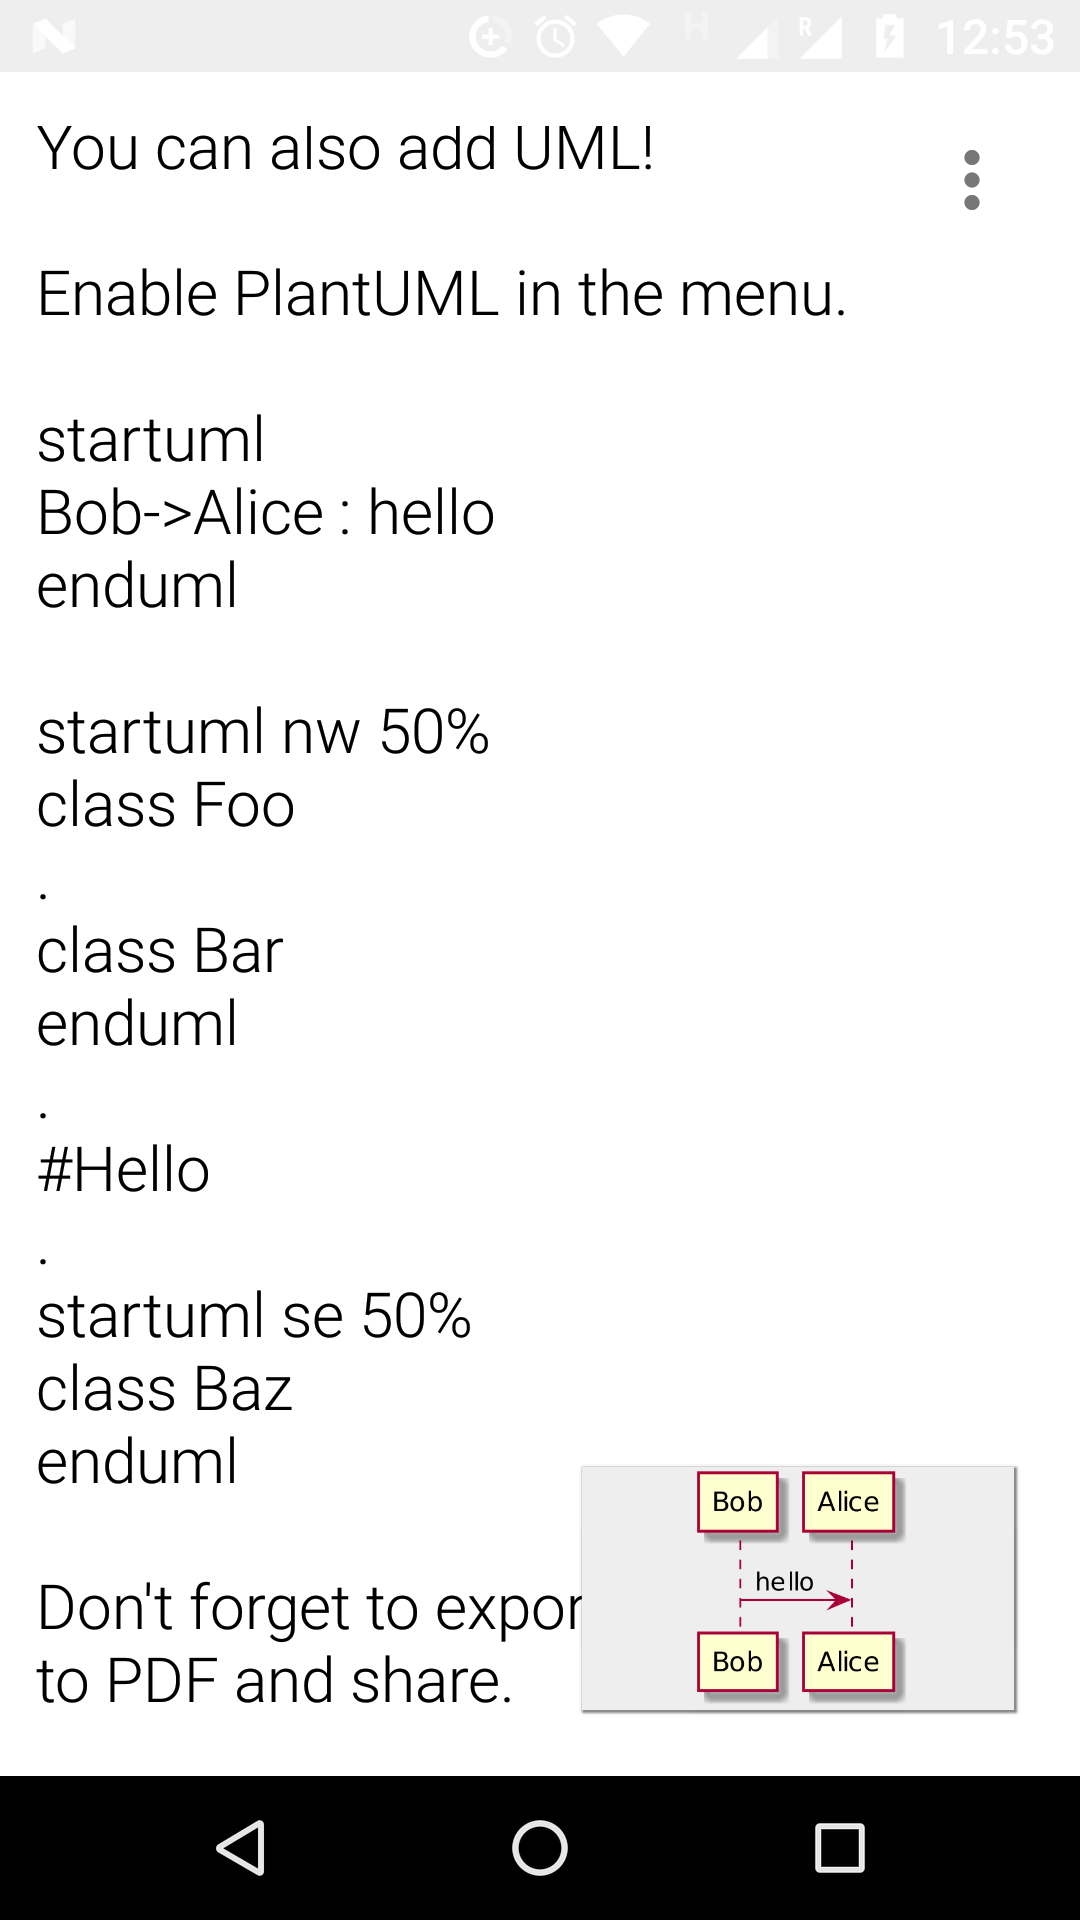
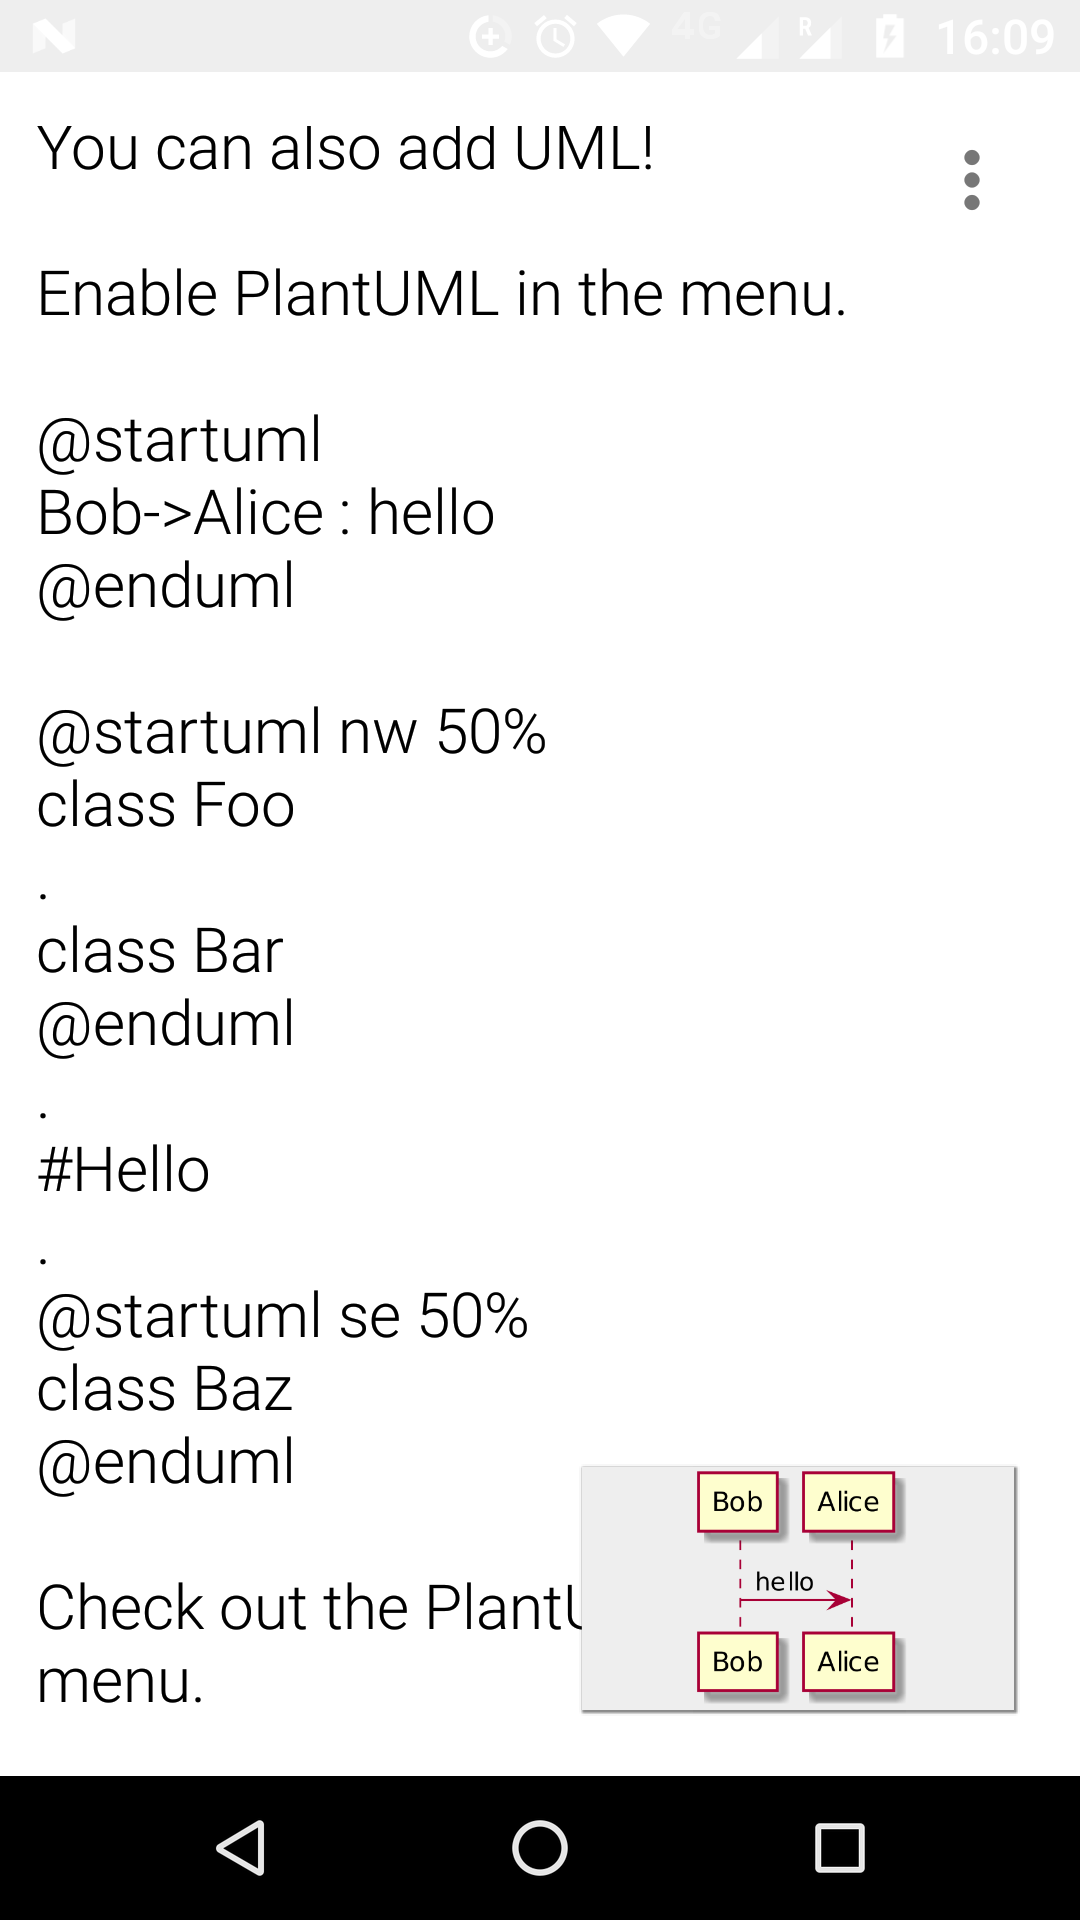
Change syntax to match docs. Add link to docs

diff --git a/src/main/java/trikita/slide/ui/MainLayout.java b/src/main/java/trikita/slide/ui/MainLayout.java
@@ -4,6 +4,8 @@ import android.app.Activity;
 import android.app.AlertDialog;
 import android.content.Context;
 import android.content.DialogInterface;
+import android.content.Intent;
+import android.net.Uri;
 import android.util.Pair;
 import android.view.View;
 import android.widget.CheckBox;
@@ -144,6 +146,8 @@ public class MainLayout extends RenderableView {
                 App.dispatch(new Action<>(ActionType.CREATE_PDF, (Activity) v.getContext()));
             } else if (item.getItemId() == R.id.menu_config_plantuml) {
                 openConfigPlantUMLDialog();
+            } else if (item.getItemId() == R.id.menu_plantuml_docs) {
+                openPlantUMLDocs();
             }
             return true;
         });
@@ -203,5 +207,11 @@ public class MainLayout extends RenderableView {
                 }
             })
             .show();
+    }
+
+    private static void openPlantUMLDocs() {
+        Intent i = new Intent(Intent.ACTION_VIEW);
+        i.setData(Uri.parse("https://plantuml.com"));
+        App._startActivity(i);
     }
 }

diff --git a/src/main/java/trikita/slide/Slide.java b/src/main/java/trikita/slide/Slide.java
@@ -252,7 +252,7 @@ public class Slide {
             String lineT = line.trim();
 
             if (inUML) {
-                if (lineT.toLowerCase().equals("enduml")) {
+                if (lineT.toLowerCase().equals("@enduml")) {
                     outLines.add(processPlantUML(TextUtils.join("\n", umlLines)) + bgArgs);
                     inUML = false;
                     umlLines = null;
@@ -264,10 +264,10 @@ public class Slide {
                         umlLines.add(line);
                 }
             } else {
-                if (lineT.toLowerCase().startsWith("startuml")) {
+                if (lineT.toLowerCase().startsWith("@startuml")) {
                     umlLines = new ArrayList<>();
                     inUML = true;
-                    bgArgs = lineT.substring("startuml".length());
+                    bgArgs = lineT.substring("@startuml".length());
                     if(!bgArgs.isEmpty() && bgArgs.charAt(0) != ' ') bgArgs = " " + bgArgs;
                 } else
                     outLines.add(line);

diff --git a/src/main/java/trikita/slide/App.java b/src/main/java/trikita/slide/App.java
@@ -1,6 +1,7 @@
 package trikita.slide;
 
 import android.app.Application;
+import android.content.Intent;
 
 import trikita.anvil.Anvil;
 import trikita.jedux.Action;
@@ -51,5 +52,9 @@ public class App extends Application {
 
     public static State dispatch(Action<ActionType, ?> action) {
         return instance.store.dispatch(action);
+    }
+
+    public static void _startActivity(Intent i) {
+        instance.startActivity(i);
     }
 }
